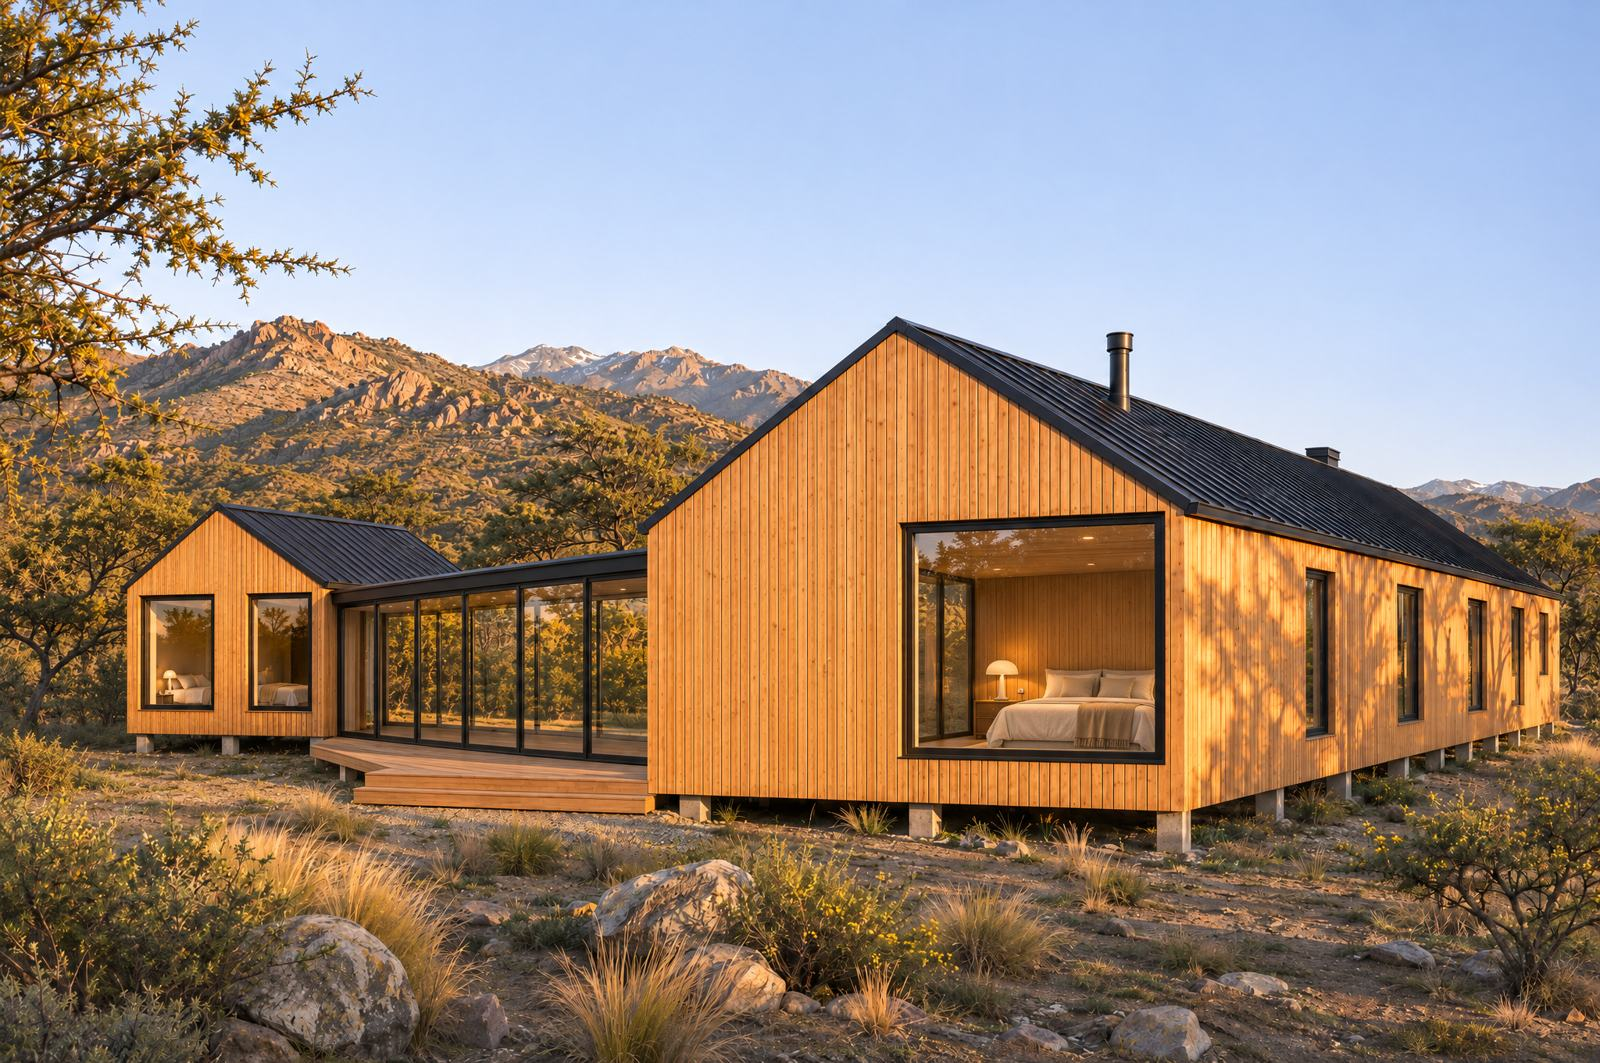
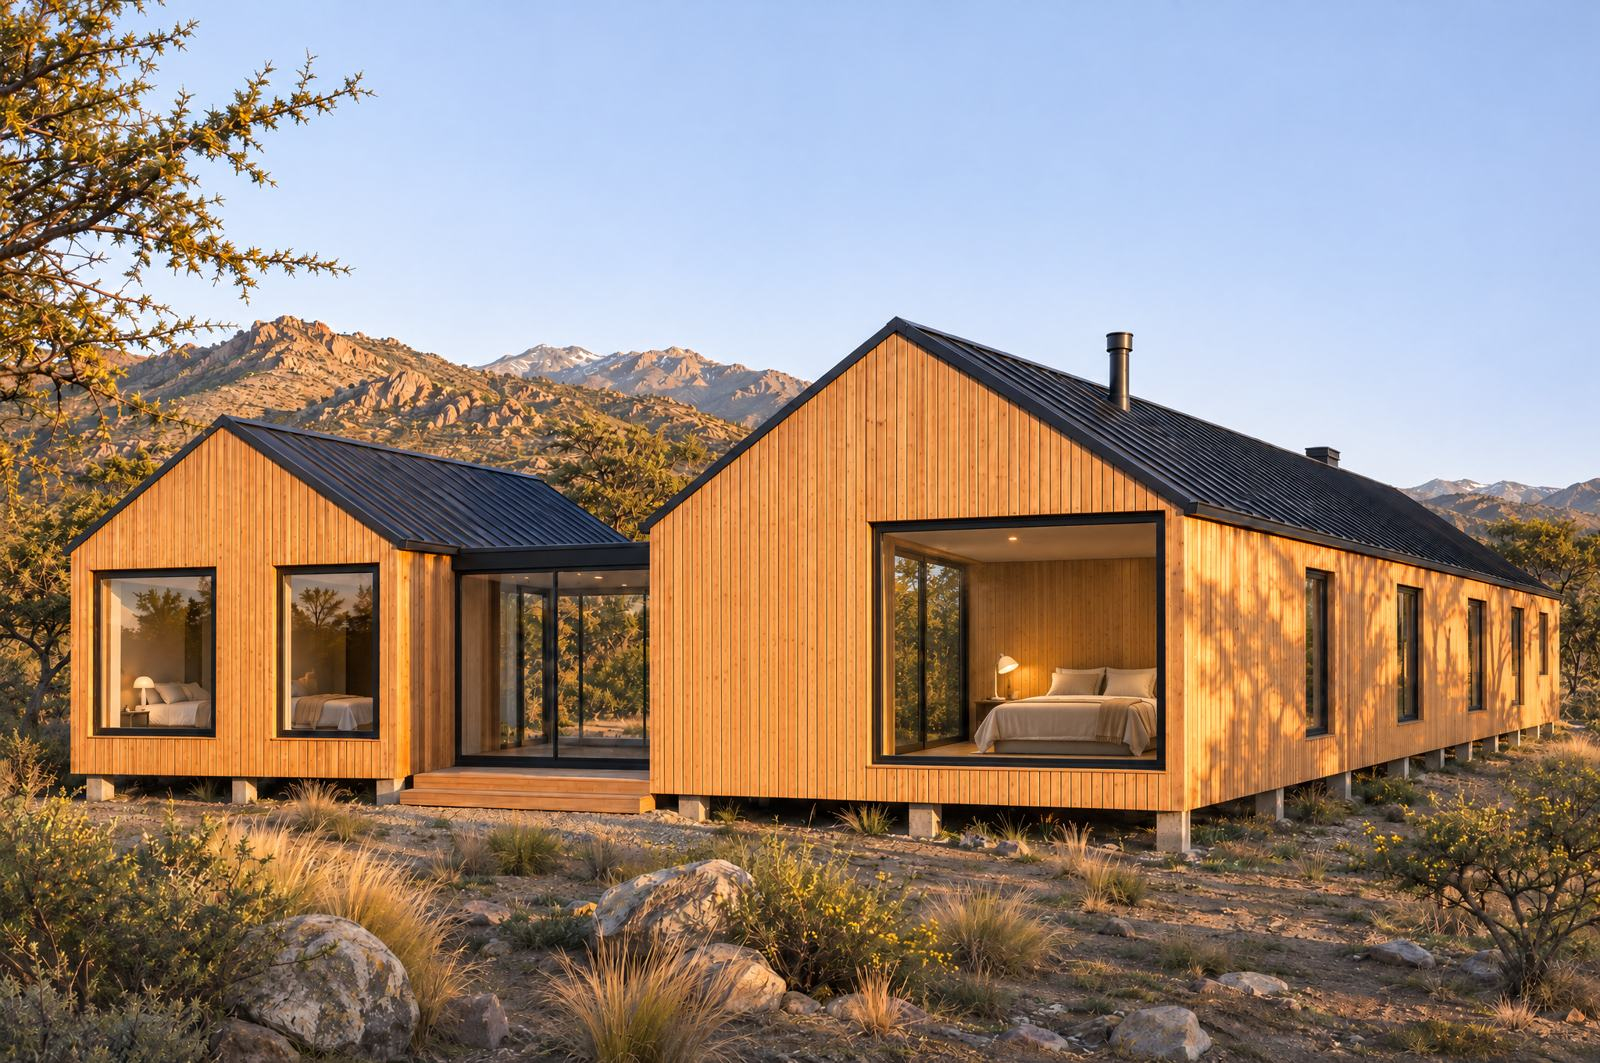
Noki II 135 y 147: fachadas corregidas, dormitorio del 108 con paisaje del modelo; quita imágenes del 147

diff --git a/app/noki/modelos/datos.ts b/app/noki/modelos/datos.ts
@@ -197,7 +197,7 @@ export const MODELOS: Modelo[] = [
     planoPdf: '/noki/Modelos/planos/nokiII_147.pdf',
     planoImg: '/noki/Modelos/planos/nokiII_147_plano.jpg',
     hero: '/noki/Modelos/galeria/noki-ii-147/hero.jpg',
-    galeria: [...G('noki-ii-147', 'hero.jpg', 'living.jpg', 'extra.jpg', 'dormitorio.jpg', 'dusk.jpg'), '/noki/Modelos/baja/nokiII_140.jpg'],
+    galeria: [...G('noki-ii-147', 'hero.jpg', 'dormitorio.jpg'), '/noki/Modelos/baja/nokiII_140.jpg'],
   },
   {
     slug: 'noki-ii-160',
